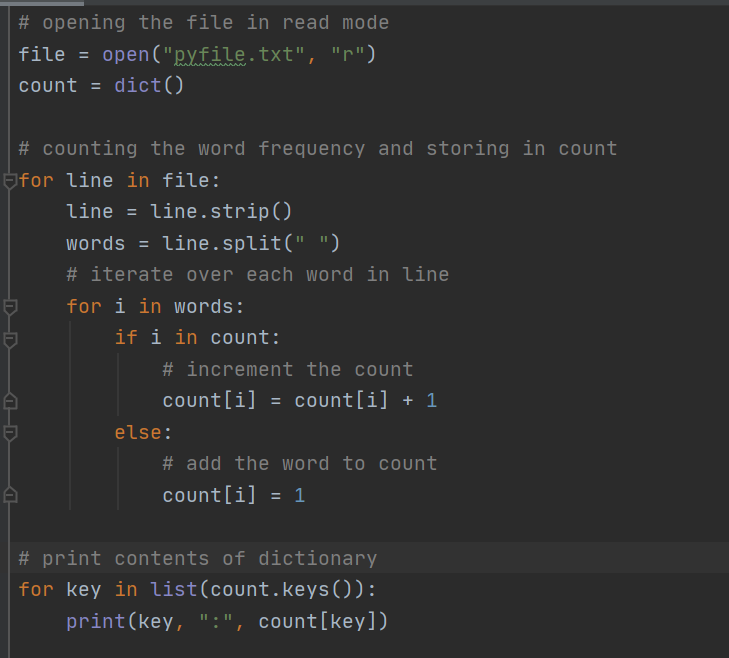
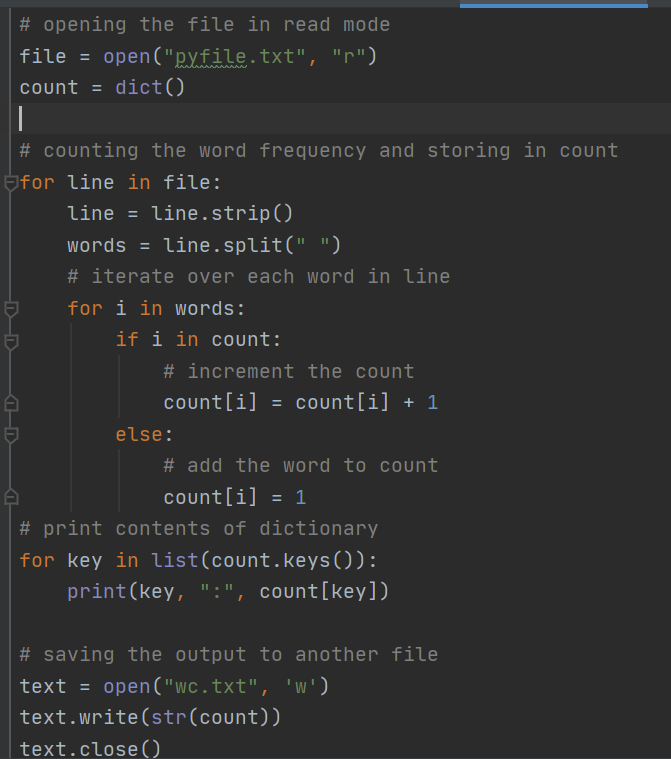
Loops, lists, tuples and functions

Changed region(s): [[0.0, 0.0, 0.924, 1.0], [0.6855, 0.0, 0.9538, 0.0304], [0.6259, 0.3343, 0.6557, 0.3951]]

diff --git a/ICP2/Sourcecode/wordcount.py b/ICP2/Sourcecode/wordcount.py
@@ -14,7 +14,11 @@ for line in file:
         else:
             # add the word to count
             count[i] = 1
-
 # print contents of dictionary
 for key in list(count.keys()):
     print(key, ":", count[key])
+
+# saving the output to another file
+text = open("wc.txt", 'w')
+text.write(str(count))
+text.close()
